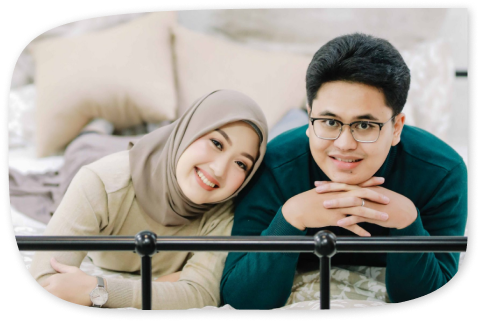
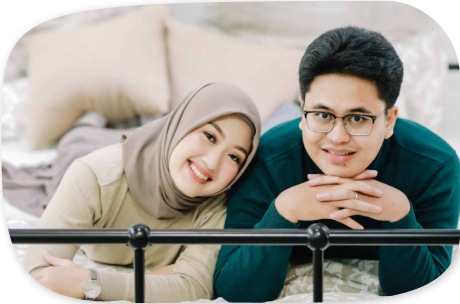
optimation web

diff --git a/index.html b/index.html
@@ -132,7 +132,7 @@
 							<div class="male">
 								<img
 									style="margin-bottom: 25px"
-									src="img/male.png"
+									src="img/male2.png"
 								/>
 								<h3>Nathan</h3>
 								<p>Nathan Putra</p>
@@ -141,7 +141,7 @@
 							<div class="female">
 								<img
 									style="margin-bottom: 25px"
-									src="img/female.png"
+									src="img/female2.png"
 								/>
 								<h3>Salma</h3>
 								<p>Salma Putri</p>
@@ -229,52 +229,6 @@
 							<img src="img/location-icon.png" />
 							lihat lokasi
 						</button>
-					</div>
-				</div>
-			</div>
-
-			<div
-				id="gallery"
-				class="gallery"
-				data-aos="zoom-in"
-				data-aos-duration="500"
-			>
-				<div class="container">
-					<div
-						class="title d-flex justify-content-center align-items-center"
-					>
-						<h1>Gallery</h1>
-					</div>
-
-					<div class="slider-img">
-						<div
-							class="wedding-images"
-							data-aos="zoom-in"
-							data-aos-duration="700"
-						>
-							<img src="img/prewed_1.png" alt="" />
-						</div>
-						<div
-							class="wedding-images"
-							data-aos="zoom-in"
-							data-aos-duration="700"
-						>
-							<img src="img/prewed_2.png" alt="" />
-						</div>
-						<div
-							class="wedding-images"
-							data-aos="zoom-in"
-							data-aos-duration="700"
-						>
-							<img src="img/prewed_3.png" alt="" />
-						</div>
-						<div
-							class="wedding-images"
-							data-aos="zoom-in"
-							data-aos-duration="700"
-						>
-							<img src="img/prewed_4.png" alt="" />
-						</div>
 					</div>
 				</div>
 			</div>
@@ -381,7 +335,67 @@
 				</div>
 			</div>
 
-			<div id="guest-book" data-aos="fade-up" data-aos-duration="500">
+			<div
+				id="gallery"
+				class="gallery"
+				data-aos="zoom-in"
+				data-aos-duration="500"
+			>
+				<div class="container">
+					<div
+						class="title d-flex justify-content-center align-items-center"
+					>
+						<h1>Gallery</h1>
+					</div>
+
+					<div class="slider-img">
+						<div
+							class="wedding-images"
+							data-aos="zoom-in"
+							data-aos-duration="700"
+						>
+							<img src="img/g1.png" alt="" />
+						</div>
+						<div
+							class="wedding-images"
+							data-aos="zoom-in"
+							data-aos-duration="700"
+						>
+							<img src="img/g2.png" alt="" />
+						</div>
+						<div
+							class="wedding-images"
+							data-aos="zoom-in"
+							data-aos-duration="700"
+						>
+							<img src="img/g3.png" alt="" />
+						</div>
+						<div
+							class="wedding-images"
+							data-aos="zoom-in"
+							data-aos-duration="700"
+						>
+							<img src="img/g4.png" alt="" />
+						</div>
+						<div
+							class="wedding-images"
+							data-aos="zoom-in"
+							data-aos-duration="700"
+						>
+							<img src="img/g5.png" alt="" />
+						</div>
+						<div
+							class="wedding-images"
+							data-aos="zoom-in"
+							data-aos-duration="700"
+						>
+							<img src="img/g6.png" alt="" />
+						</div>
+					</div>
+				</div>
+			</div>
+
+			<!-- <div id="guest-book" data-aos="fade-up" data-aos-duration="500">
 				<div class="bg-wedding"></div>
 
 				<div class="content-guestbook">
@@ -661,7 +675,7 @@
 
 					<div class="dots">*</div>
 				</div>
-			</div>
+			</div> -->
 
 			<div id="gift">
 				<div class="container">
@@ -771,10 +785,10 @@
 
 				if (distance < 0) {
 					clearInterval(x);
-					document.getElementById("day").innerHTML = "EXPIRED";
-					document.getElementById("hour").innerHTML = "EXPIRED";
-					document.getElementById("minute").innerHTML = "EXPIRED";
-					document.getElementById("second").innerHTML = "EXPIRED";
+					document.getElementById("day").innerHTML = "-";
+					document.getElementById("hour").innerHTML = "-";
+					document.getElementById("minute").innerHTML = "-";
+					document.getElementById("second").innerHTML = "-";
 				}
 			}, 1000);
 		</script>

diff --git a/main.css b/main.css
@@ -51,7 +51,7 @@ input#input-radio.form-check-input:checked {
 	clip-path: ellipse(100% 83% at 50% 7%);
 	height: 620px;
 	object-fit: cover;
-	filter: brightness(0.2);
+	filter: brightness(0.3);
 }
 
 #front {
@@ -83,7 +83,7 @@ input#input-radio.form-check-input:checked {
 	background-color: white;
 	color: #284b63;
 	border: 1px solid #284b63;
-	border-radius: 30px 0 30px 30px;
+	border-radius: 5px 20px;
 	transition: 0.3s;
 }
 
@@ -96,9 +96,10 @@ input#input-radio.form-check-input:checked {
 
 .top img {
 	width: 100%;
-	clip-path: ellipse(95% 80% at 50% 0%);
+	clip-path: ellipse(95% 90% at 50% 0%);
 	object-fit: cover;
 	height: 600px;
+	filter: brightness(0.8);
 }
 
 .top .container {
@@ -106,7 +107,7 @@ input#input-radio.form-check-input:checked {
 }
 
 .top .container .text-top {
-	margin-top: -300px;
+	margin-top: -270px;
 	position: relative;
 	color: rgb(255, 255, 255);
 	font-family: "Roboto Slab", serif;
@@ -124,7 +125,7 @@ input#input-radio.form-check-input:checked {
 }
 
 .top .container .text-bottom {
-	margin: 100px 0 100px 0;
+	margin: 130px 0 100px 0;
 	font-family: "Fanwood Text", serif;
 	font-size: 18px;
 }
@@ -188,19 +189,20 @@ input#input-radio.form-check-input:checked {
 	display: flex;
 	justify-content: center;
 	column-gap: 15px;
-	margin: -70px 0 30px 0;
+	margin: -70px auto 30px auto;
 	font-family: "Sarabun", sans-serif;
 	color: white;
 	text-align: center;
 	position: relative;
+	width: fit-content;
+	background: linear-gradient(180deg, #517682 0%, #284b63 100%);
+	border-radius: 20px 20px 50px 50px;
 }
 
 .counting .circle {
-	background: linear-gradient(180deg, #517682 0%, #284b63 100%);
-	box-shadow: 0px 49px 60px -19px rgba(19, 107, 188, 0.2);
+	background-color: transparent;
 	width: 120px;
 	height: 120px;
-	border-radius: 50%;
 	padding: 20px;
 }
 
@@ -261,7 +263,7 @@ input#input-radio.form-check-input:checked {
 	padding: 0 30px;
 	background-color: #284b63;
 	color: white;
-	border-radius: 30px 0 30px 30px;
+	border-radius: 10px;
 }
 
 .resepsi button img {
@@ -276,7 +278,7 @@ input#input-radio.form-check-input:checked {
 }
 
 #gallery {
-	margin-top: 50px;
+	margin: 50px 0;
 	background: #fafdfe;
 	box-shadow: 1px -25px 60px rgba(0, 87, 139, 0.1);
 	border-radius: 53px;
@@ -285,7 +287,7 @@ input#input-radio.form-check-input:checked {
 .gallery .slider-img .wedding-images img {
 	width: 320px;
 	height: 320px;
-	border-radius: 50%;
+	
 }
 
 .gallery .slider-img .wedding-images {
@@ -551,7 +553,7 @@ form.input-kehadiran button.btn.btn-dark.mt-5 {
 
 #sosmed a.sosmed {
 	margin: 0 20px 0 20px;
-	padding: 5px 13px;
+	padding: 7px 13px;
 	border-radius: 100%;
 	font-size: 25px;
 	background-color: var(--white-color);

diff --git a/script.js b/script.js
@@ -141,7 +141,7 @@ $(document).ready(function () {
 document.getElementById("landing").style.display = "none";
 document.getElementById("gallery").style.display = "none";
 document.getElementById("story").style.display = "none";
-document.getElementById("guest-book").style.display = "none";
+// document.getElementById("guest-book").style.display = "none";
 document.getElementById("gift").style.display = "none";
 
 function front() {
@@ -149,7 +149,7 @@ function front() {
 	document.getElementById("landing").style.display = "";
 	document.getElementById("gallery").style.display = "";
 	document.getElementById("story").style.display = "";
-	document.getElementById("guest-book").style.display = "";
+	// document.getElementById("guest-book").style.display = "";
 	document.getElementById("gift").style.display = "";
 }
 
